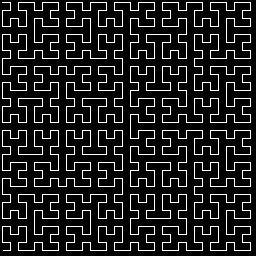
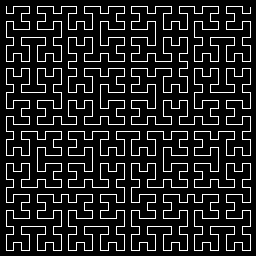
fix: preserve orientation properties of hilbert curve #7

Changed region(s): [[0.0, 0.0, 1.0, 1.0]]

diff --git a/src/lib.rs b/src/lib.rs
@@ -60,6 +60,11 @@ impl Unsigned for u64 {
     const SEVEN: Self = 7;
     const SIXTY_THREE: Self::Key = 63;
 }
+impl Unsigned for u32 {
+    type Key = u64;
+    const SEVEN: Self = 7;
+    const SIXTY_THREE: Self::Key = 63;
+}
 impl Unsigned for u16 {
     type Key = u32;
     const SEVEN: Self = 7;
@@ -70,11 +75,6 @@ impl Unsigned for u8 {
     const SEVEN: Self = 7;
     const SIXTY_THREE: Self::Key = 63;
 }
-impl Unsigned for u32 {
-    type Key = u64;
-    const SEVEN: Self = 7;
-    const SIXTY_THREE: Self::Key = 63;
-}
 
 /// Convert form 2D to 1D hilbert space.
 /// Input type `T` must have half the capacity of the result type. For example (u32, u32) => u64.
@@ -82,13 +82,14 @@ impl Unsigned for u32 {
 /// # Arguments
 /// * `x` - Coordinate in 2D space
 /// * `y` - Coordinate in 2D space
+/// * `order` - The hilbert curve order
 ///
 /// # Examples
 ///```
-/// let hilbert = fast_hilbert::xy2h(1u64, 0);
-/// assert_eq!(hilbert, 01u128);
+/// let hilbert = fast_hilbert::xy2h(1u64, 0, 1);
+/// assert_eq!(hilbert, 0b11u128);
 ///```
-pub fn xy2h<T: Unsigned>(x: T, y: T) -> <T as Unsigned>::Key
+pub fn xy2h<T: Unsigned>(x: T, y: T, order: u8) -> <T as Unsigned>::Key
 where
     <T as TryInto<usize>>::Error: core::fmt::Debug,
 {
@@ -113,8 +114,7 @@ where
 
     let coor_bits = (core::mem::size_of::<T>() * 8) as u32;
     let useless_bits = (x | y).leading_zeros() & !1;
-    let useful_bits = coor_bits - useless_bits;
-    let order = useful_bits;
+    let order = (coor_bits - useless_bits) as u8 + (order & 1);
 
     let seven = T::SEVEN;
     let sixty_three = T::SIXTY_THREE;
@@ -155,15 +155,16 @@ where
 /// Input type `T` must have double the capacity of the result types. For example u64 => (u32, u32).
 ///
 /// # Arguments
-/// * `h` - Coordinate in 1D hilbert space
+/// * `h`     - Coordinate in 1D hilbert space
+/// * `order` - Hilbert curve order
 ///
 /// # Examples
 ///```
-/// let (x, y) = fast_hilbert::h2xy::<u64>(01u128);
+/// let (x, y) = fast_hilbert::h2xy::<u64>(0b11u128, 1);
 /// assert_eq!(x, 1u64);
 /// assert_eq!(y, 0u64);
 ///```
-pub fn h2xy<T: Unsigned>(h: <T as Unsigned>::Key) -> (T, T)
+pub fn h2xy<T: Unsigned>(h: <T as Unsigned>::Key, order: u8) -> (T, T)
 where
     <T as TryInto<usize>>::Error: core::fmt::Debug,
     <<T as Unsigned>::Key as TryInto<u8>>::Error: core::fmt::Debug,
@@ -187,11 +188,9 @@ where
         169, 232, 224, 97, 34, 106, 107, 227, 219, 147, 146, 26, 153, 216, 208, 81, 137, 200, 192,
         65, 2, 74, 75, 195, 68, 5, 13, 140, 20, 92, 93, 213, 22, 94, 95, 215, 143, 206, 198, 71,
     ];
-
-    let coor_bits = (core::mem::size_of::<T>() * 8) as u32;
-    let useless_bits = (h.leading_zeros() >> 1) & !1;
-    let useful_bits = coor_bits - useless_bits;
-    let order = useful_bits;
+    let coor_bits = (core::mem::size_of::<T>() * 8) as u8;
+    let useless_bits = (h.leading_zeros() >> 1) as u8 & !1;
+    let order = coor_bits - useless_bits + (order & 1);
 
     let seven = T::SEVEN;
     let sixty_three = T::SIXTY_THREE;
@@ -307,45 +306,57 @@ mod tests {
 
     #[test]
     fn hilbert_and_rev() {
-        let order = 16;
-        for h in 0..(2usize.pow(order) - 1) {
-            let (x, y): (u32, u32) = h2xy(h as u64);
-            let res_h = xy2h(x, y);
+        let order = 4;
+        let max =  2usize.pow(order * 2);
+        for h in 0..max {
+            let (x, y): (u32, u32) = h2xy(h as u64, order as u8);
+            let res_h = xy2h(x, y, order as u8);
             assert_eq!(h as u64, res_h);
+        }
+    }
+
+    #[test]
+    fn hilbert_and_rev_full_order() {
+        let order = 8;
+        let max =  2usize.pow(order * 2);
+        for h in 0..max {
+            let (x, y): (u8, u8) = h2xy(h as u16, order as u8);
+            let res_h = xy2h(x, y, order as u8);
+            assert_eq!(h as u16, res_h);
         }
     }
 
     #[test]
     fn h2xy_one_bit() {
         let h2xy = h2xy::<u8>;
-        let (x0, y0) = h2xy(0b00);
-        let (x1, y1) = h2xy(0b01);
-        let (x2, y2) = h2xy(0b11);
-        let (x3, y3) = h2xy(0b10);
+        let (x0, y0) = h2xy(0, 1);
+        let (x1, y1) = h2xy(1, 1);
+        let (x2, y2) = h2xy(2, 1);
+        let (x3, y3) = h2xy(3, 1);
         assert_eq!((x0, y0), (0, 0));
-        assert_eq!((x3, y3), (1, 1));
-        assert_eq!((x2, y2), (0, 1));
-        assert_eq!((x1, y1), (1, 0));
+        assert_eq!((x1, y1), (0, 1));
+        assert_eq!((x2, y2), (1, 1));
+        assert_eq!((x3, y3), (1, 0));
     }
 
     #[test]
     fn xy2h_one_bit() {
-        let d0 = xy2h(0u64, 0);
-        let d1 = xy2h(0u64, 1);
-        let d2 = xy2h(1u64, 0);
-        let d3 = xy2h(1u64, 1);
-        assert_eq!(d0, 0b00);
-        assert_eq!(d1, 0b11);
-        assert_eq!(d2, 0b01);
-        assert_eq!(d3, 0b10);
+        let d0 = xy2h(0u64, 0, 1);
+        let d1 = xy2h(0u64, 1, 1);
+        let d2 = xy2h(1u64, 0, 1);
+        let d3 = xy2h(1u64, 1, 1);
+        assert_eq!(d0, 0);
+        assert_eq!(d1, 1);
+        assert_eq!(d2, 3);
+        assert_eq!(d3, 2);
     }
 
     #[test]
     fn h2xy_two_bits() {
         let h2xy = h2xy::<u32>;
         for h in 0..8 {
-            let (rx, ry) = h2xy(h as u64);
-            let h_cmp = xy2h(rx as u32, ry as u32);
+            let (rx, ry) = h2xy(h as u64, 2);
+            let h_cmp = xy2h(rx as u32, ry as u32, 2);
             assert_eq!(h, h_cmp as usize);
         }
     }
@@ -355,7 +366,7 @@ mod tests {
         for x in 0..4 {
             for y in 0..4 {
                 let d = hilbert_curve::convert_2d_to_1d(x, y, 4);
-                let df = xy2h(x as u32, y as u32);
+                let df = xy2h(x as u32, y as u32, 2);
                 assert_eq!(d as u64, df);
             }
         }
@@ -368,28 +379,29 @@ mod tests {
             let numbers = 2usize.pow(bits);
             for d in (0..(numbers * numbers)).step_by(numbers as usize) {
                 let (x, y) = hilbert_curve::convert_1d_to_2d(d, numbers);
-                assert_eq!(xy2h(x as u32, y as u32), d as u64);
+                assert_eq!(xy2h(x as u32, y as u32, bits as u8), d as u64);
             }
         }
     }
 
     fn draw_hilbert_curve(iteration: u32) -> image::ImageBuffer<image::Rgb<u8>, Vec<u8>> {
         let size: usize = 256;
-        let border = 32;
+        let border = 32 / iteration;
 
         let mut imgbuf = image::ImageBuffer::new(size as u32, size as u32);
 
         let mut points: Vec<(u32, u32)> = vec![(0, 0); 2usize.pow(iteration * 2)];
         for i in 0..2usize.pow(iteration * 2) {
-            let (mut x, mut y) = h2xy(i as u64);
-            let step = (size as u32 - border * 2) / (2usize.pow(iteration) as u32 - 1);
-            x = x * step + border;
-            y = y * step + border;
+            let (mut x, mut y) = h2xy(i as u64, iteration as u8);
+            let step = (size as u32 - border * 2) as f64 / (2usize.pow(iteration) as f64 - 1.0);
+            x = (x as f64 * step) as u32 + border;
+            y = (y as f64 * step) as u32 + border;
             points[i] = (x, y)
         }
 
         let mut prev = (0, 0);
         let white = image::Rgb([255_u8, 255, 255]);
+
         for (x, y) in &points {
             if prev == (0, 0) {
                 prev = (*x, *y);
@@ -426,7 +438,7 @@ mod tests {
     // Only for rendering images
     #[test]
     fn write_image() {
-        for i in 1..4 {
+        for i in 1..7 {
             let imgbuf = draw_hilbert_curve(i);
             imgbuf.save(format!("doc/h{}.png", i)).unwrap();
         }

diff --git a/benches/benchmark.rs b/benches/benchmark.rs
@@ -44,7 +44,7 @@ fn criterion_benchmark(c: &mut Criterion) {
         b.iter(|| {
             for x in 0..n {
                 for y in 0..n {
-                    fast_hilbert::xy2h(black_box(x as u32), black_box(y as u32));
+                    fast_hilbert::xy2h(black_box(x as u32), black_box(y as u32),black_box(bits as u8));
                 }
             }
         })
